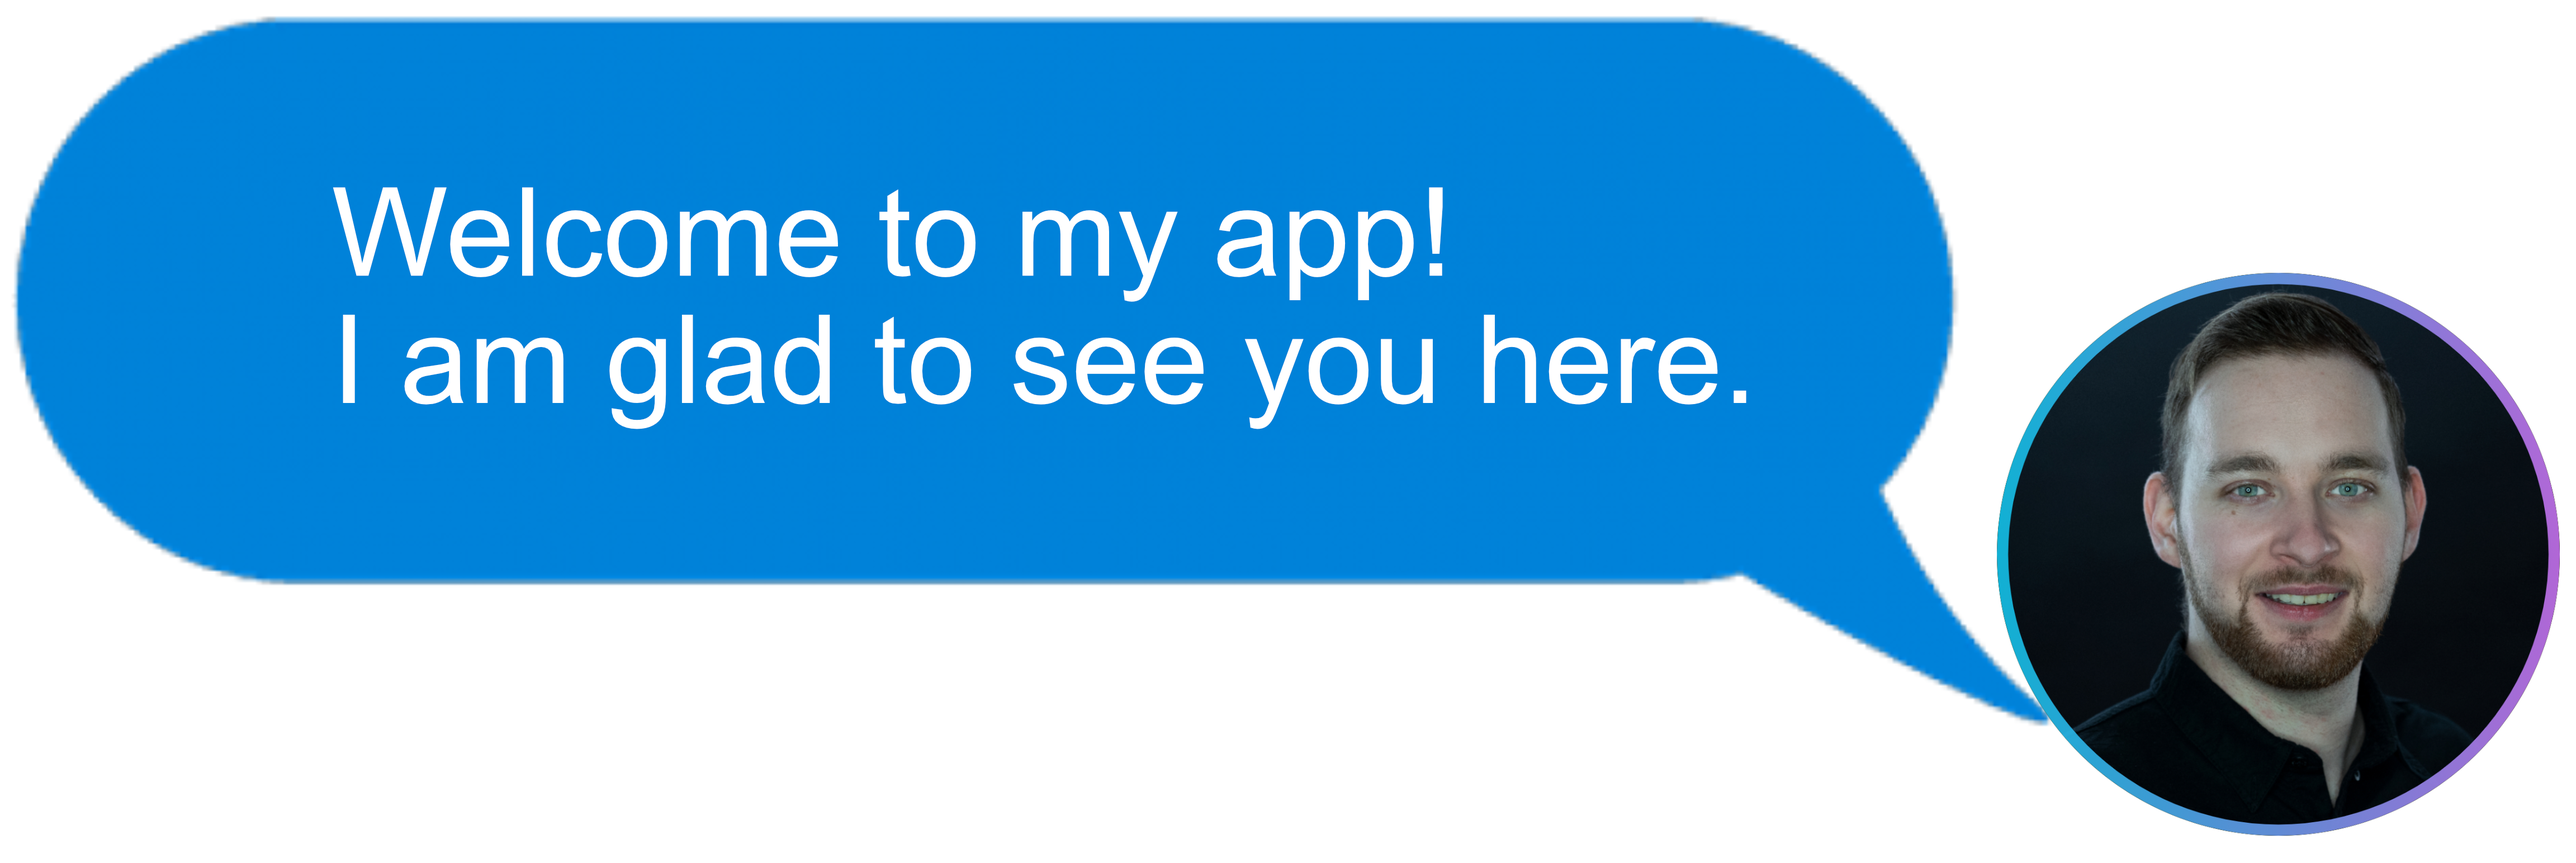
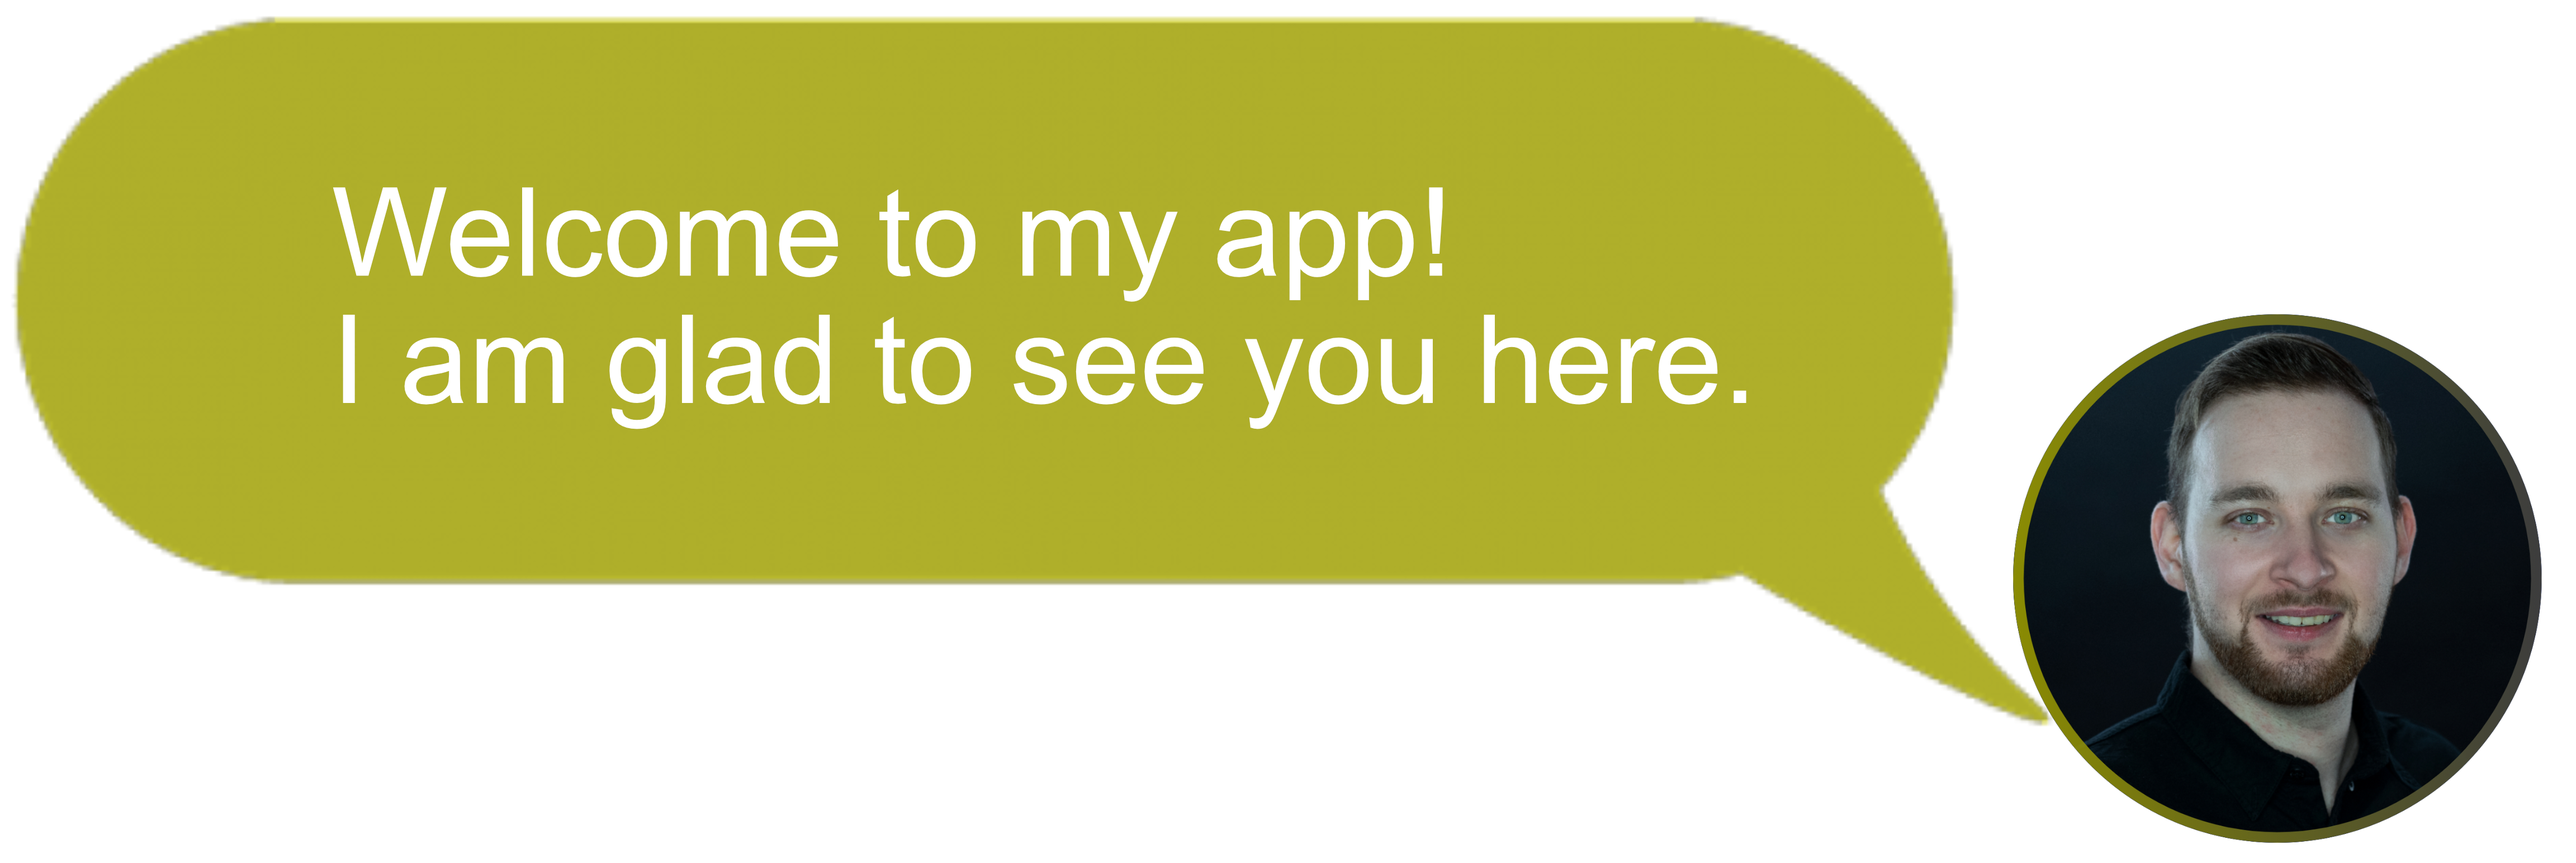
redesigning color scheme

diff --git a/lib/screens/price_screen.dart b/lib/screens/price_screen.dart
@@ -1,0 +1,157 @@
+import 'package:flutter/material.dart';
+import 'package:flutter/cupertino.dart';
+import '../tracker/coin_data.dart';
+import 'dart:io' show Platform;
+
+class PriceScreen extends StatefulWidget {
+  @override
+  _PriceScreenState createState() => _PriceScreenState();
+}
+
+class _PriceScreenState extends State<PriceScreen> {
+  String selectedCurrency = 'CHF';
+
+  DropdownButton<String> androidDropdown() {
+    List<DropdownMenuItem<String>> dropdownItems = [];
+    for (String currency in currenciesList) {
+      var newItem = DropdownMenuItem(
+        child: Text(currency,
+        style: TextStyle(color: Color(0xffb666666),),),
+        value: currency,
+      );
+      dropdownItems.add(newItem);
+    }
+
+    return DropdownButton<String>(
+      value: selectedCurrency,
+      items: dropdownItems,
+      onChanged: (value) {
+        setState(() {
+          selectedCurrency = value;
+          getData();
+        });
+      },
+    );
+  }
+
+  CupertinoPicker iOSPicker() {
+    List<Text> pickerItems = [];
+    for (String currency in currenciesList) {
+      pickerItems.add(Text(currency));
+    }
+
+    return CupertinoPicker(
+      backgroundColor: Color(0xffb999900),
+      itemExtent: 32.0,
+      onSelectedItemChanged: (selectedIndex) {
+        setState(() {
+          selectedCurrency = currenciesList[selectedIndex];
+          getData();
+        });
+      },
+      children: pickerItems,
+    );
+  }
+
+  Map<String, String> coinValues = {};
+  bool isWaiting = false;
+
+  void getData() async {
+    isWaiting = true;
+    try {
+      var data = await CoinData().getCoinData(selectedCurrency);
+      isWaiting = false;
+      setState(() {
+        coinValues = data;
+      });
+    } catch (e) {
+      print(e);
+    }
+  }
+
+  @override
+  void initState() {
+    super.initState();
+    getData();
+  }
+
+  Column makeCards() {
+    List<CryptoCard> cryptoCards = [];
+    for (String crypto in cryptoList) {
+      cryptoCards.add(
+        CryptoCard(
+          cryptoCurrency: crypto,
+          selectedCurrency: selectedCurrency,
+          value: isWaiting ? '?' : coinValues[crypto],
+        ),
+      );
+    }
+    return Column(
+      crossAxisAlignment: CrossAxisAlignment.stretch,
+      children: cryptoCards,
+    );
+  }
+
+  @override
+  Widget build(BuildContext context) {
+    return new Scaffold(
+      appBar: new AppBar(
+        title: new Text('Coin Ticker',
+        style: TextStyle(color: Color(0xffb666666),),),
+        backgroundColor: Color(0xffb999900),
+      ),
+      backgroundColor: Color(0xffb666666),
+      body: Column(
+        mainAxisAlignment: MainAxisAlignment.spaceBetween,
+        crossAxisAlignment: CrossAxisAlignment.stretch,
+        children: <Widget>[
+          makeCards(),
+          Container(
+            height: 150.0,
+            alignment: Alignment.center,
+            padding: EdgeInsets.only(bottom: 30.0),
+            color: Color(0xffb999900),
+            child: Platform.isIOS ? iOSPicker() : androidDropdown(),
+          ),
+        ],
+      ),
+    );
+  }
+}
+
+class CryptoCard extends StatelessWidget {
+  const CryptoCard({
+    this.value,
+    this.selectedCurrency,
+    this.cryptoCurrency,
+  });
+
+  final String value;
+  final String selectedCurrency;
+  final String cryptoCurrency;
+
+  @override
+  Widget build(BuildContext context) {
+    return Padding(
+      padding: EdgeInsets.fromLTRB(18.0, 18.0, 18.0, 0),
+      child: Card(
+        color: Color(0xffb999900),
+        elevation: 5.0,
+        shape: RoundedRectangleBorder(
+          borderRadius: BorderRadius.circular(10.0),
+        ),
+        child: Padding(
+          padding: EdgeInsets.symmetric(vertical: 15.0, horizontal: 28.0),
+          child: Text(
+            '1 $cryptoCurrency = $value $selectedCurrency',
+            textAlign: TextAlign.center,
+            style: TextStyle(
+              fontSize: 20.0,
+              color: Color(0xffb666666),
+            ),
+          ),
+        ),
+      ),
+    );
+  }
+}

diff --git a/lib/screens/tasks_screen.dart b/lib/screens/tasks_screen.dart
@@ -17,7 +17,7 @@ class _TasksScreenState extends State<TasksScreen> {
     return Consumer<Tasks>(
       builder: (context, tasks, child) {
         return Scaffold(
-          backgroundColor: Colors.lightBlueAccent,
+          backgroundColor: Color(0xffb999900),
           floatingActionButton: FloatingActionButton(
             onPressed: () => showModalBottomSheet(
               context: context,
@@ -31,8 +31,11 @@ class _TasksScreenState extends State<TasksScreen> {
                 ),
               ),
             ),
-            backgroundColor: Colors.lightBlueAccent,
-            child: Icon(Icons.add),
+            backgroundColor: Color(0xffb999900),
+            child: Icon(
+                Icons.add,
+                color: Color(0xffb666666),
+          ),
           ),
           body: Column(
             crossAxisAlignment: CrossAxisAlignment.start,
@@ -47,9 +50,9 @@ class _TasksScreenState extends State<TasksScreen> {
                       child: Icon(
                         Icons.list,
                         size: 30,
-                        color: Colors.lightBlueAccent,
+                        color: Color(0xffb999900),
                       ),
-                      backgroundColor: Colors.white,
+                      backgroundColor: Color(0xffb666666),
                       radius: 30,
                     ),
                     SizedBox(
@@ -58,7 +61,7 @@ class _TasksScreenState extends State<TasksScreen> {
                     Text(
                       'What ToDo',
                       style: TextStyle(
-                        color: Colors.white,
+                        color: Color(0xffb666666),
                         fontSize: 50,
                         fontWeight: FontWeight.w700,
                       ),
@@ -66,7 +69,7 @@ class _TasksScreenState extends State<TasksScreen> {
                     Text(
                       '${tasks?.taskCount == null ? 0 : tasks.taskCount} Tasks',
                       style: TextStyle(
-                        color: Colors.white,
+                        color: Color(0xffb666666),
                         fontSize: 18,
                       ),
                     ),
@@ -81,7 +84,7 @@ class _TasksScreenState extends State<TasksScreen> {
                       topLeft: Radius.circular(20),
                       topRight: Radius.circular(20),
                     ),
-                    color: Colors.white,
+                    color: Color(0xffb666666),
                   ),
                   child: TasksList(),
                 ),

diff --git a/lib/screens/add_task_screen.dart b/lib/screens/add_task_screen.dart
@@ -10,10 +10,10 @@ class AddTaskScreen extends StatelessWidget {
     return Consumer<Tasks>(
       builder: (context, tasks, child) {
         return Container(
-          color: Color(0xff757575),
+          color: Color(0xffb636301),
           child: Container(
             decoration: BoxDecoration(
-              color: Colors.white,
+              color: Color(0xffb666666),
               borderRadius: BorderRadius.only(
                 topLeft: Radius.circular(20),
                 topRight: Radius.circular(20),
@@ -28,13 +28,23 @@ class AddTaskScreen extends StatelessWidget {
                   textAlign: TextAlign.center,
                   style: TextStyle(
                     fontSize: 30,
-                    color: Colors.lightBlueAccent,
+                    color: Color(0xffb999900),
                   ),
                 ),
                 Padding(
                   padding: const EdgeInsets.only(bottom: 20, top: 5),
                   child: TextField(
-                    style: TextStyle(fontSize: 22),
+                    style: TextStyle(
+                        color: Color(0xffb999900),
+                        fontSize: 22),
+                    decoration: InputDecoration(
+                      hintText: 'name your task',
+                      hintStyle: TextStyle(fontSize: 13.0, color: Color(0xffb999900)),
+                      focusedBorder: UnderlineInputBorder(
+                        borderSide: BorderSide(color: Color(0xffb999900)),
+                      ),
+                    ),
+                    cursorColor: Color(0xffb999900),
                     textAlign: TextAlign.center,
                     autofocus: true,
                     onChanged: (newTitle) {
@@ -50,7 +60,7 @@ class AddTaskScreen extends StatelessWidget {
                   child: Text(
                     'Add',
                     style: TextStyle(
-                      color: Colors.white,
+                      color: Color(0xffb666666),
                       fontSize: 20,
                     ),
                   ),
@@ -60,7 +70,7 @@ class AddTaskScreen extends StatelessWidget {
                       Navigator.pop(context);
                     }
                   },
-                  color: Colors.lightBlueAccent,
+                  color: Color(0xffb999900),
                 )
               ],
             ),

diff --git a/lib/screens/info_screen.dart b/lib/screens/info_screen.dart
@@ -31,11 +31,15 @@ class OurMission extends StatelessWidget {
             child: Column(
               mainAxisAlignment: MainAxisAlignment.center,
               children: <Widget>[
+                Expanded(
+                      child: Container(
+                          child: Image.asset('images/numasTeam.jpg', width: 450, height: 400),
+                        ),),
                 Text(
                   'Our Mission',
                   style: TextStyle(
                     fontFamily: 'Roboto',
-                    fontSize: 40.0,
+                    fontSize: 30.0,
                     color: Color(0xffb999900),
                     fontWeight: FontWeight.bold,
                   ),
@@ -54,7 +58,7 @@ class OurMission extends StatelessWidget {
                   style: TextStyle(
                           color: Colors.white30,
                           fontFamily: 'Roboto',
-                          fontSize: 22.0,
+                          fontSize: 20.0,
                         ),
                       ),
                 ),
@@ -66,7 +70,7 @@ class OurMission extends StatelessWidget {
                   ),
                 ),
                 SizedBox(
-                  height: 30.0,
+                  height: 20.0,
                   width: 150.0,
                 ),
                 RichText(
@@ -96,7 +100,13 @@ class OurMission extends StatelessWidget {
                       ),
                     ],
                   )
-                )]),
+                ),
+                SizedBox(
+                  height: 40.0,
+                  width: 150.0,
+                ),
+              ]),
+
       ),
     ));
   }

diff --git a/lib/main.dart b/lib/main.dart
@@ -1,7 +1,8 @@
 import 'package:flutter/material.dart';
+import 'package:flutter/rendering.dart';
 import 'package:flutter_app_numas1/screens/loading_screen.dart';
 import 'package:flutter_app_numas1/screens/info_screen.dart';
-import 'tracker/price_screen.dart';
+import 'screens/price_screen.dart';
 import 'screens/tasks_screen.dart';
 import 'package:provider/provider.dart';
 import 'models/task.dart';
@@ -26,8 +27,11 @@ class Homescreen extends StatelessWidget {
   Widget build(BuildContext context) {
     return Scaffold(
       appBar: AppBar(
-        title: Text('Welcome'),
+        backgroundColor: Color(0xffb999900),
+        title: Text('Welcome',
+        style: TextStyle(color: Colors.white),),
       ),
+      backgroundColor:  Color(0xffb666666),
       body: new Container(
         child: new Column(
           children: <Widget>[
@@ -93,6 +97,7 @@ class Homescreen extends StatelessWidget {
                     );
                   },
                   child: Container(
+                    color: Color(0xffb666666),
                     child: ClipRRect(
                       borderRadius: BorderRadius.circular(10.0),
                       child: Image.asset('images/welcome.png', width: 450, height: 160),

diff --git a/lib/tracker/coin_data.dart b/lib/tracker/coin_data.dart
@@ -29,7 +29,8 @@ const List<String> currenciesList = [
 const List<String> cryptoList = ['BTC', 'ETH', 'LTC', 'DOGE'];
 
 const coinAPIURL = 'https://rest.coinapi.io/v1/exchangerate';
-const apiKey = '4C5FC96E-5C3F-4BE1-9F54-0D5845D864C6';
+const apiKey = 'F1933DD7-2B82-4CCA-8539-5A43C5ED295A';
+//old apiKey 4C5FC96E-5C3F-4BE1-9F54-0D5845D864C6
 
 class CoinData {
   Future getCoinData(String selectedCurrency) async {
@@ -44,6 +45,7 @@ class CoinData {
         cryptoPrices[crypto] = price.toStringAsFixed(0);
       } else {
         print(response.statusCode);
+        print(requestURL);
         throw 'Problem with the get request';
       }
     }

diff --git a/lib/widgets/task_tile.dart b/lib/widgets/task_tile.dart
@@ -16,11 +16,13 @@ class TaskTile extends StatelessWidget {
       title: Text(
         text,
         style: TextStyle(
+          color: Color(0xffb999900),
             decoration: isChecked ? TextDecoration.lineThrough : null),
       ),
       trailing: Checkbox(
         value: isChecked,
         onChanged: toggleCheckbox,
+        checkColor: Color(0xffb999900),
       ),
     );
   }
